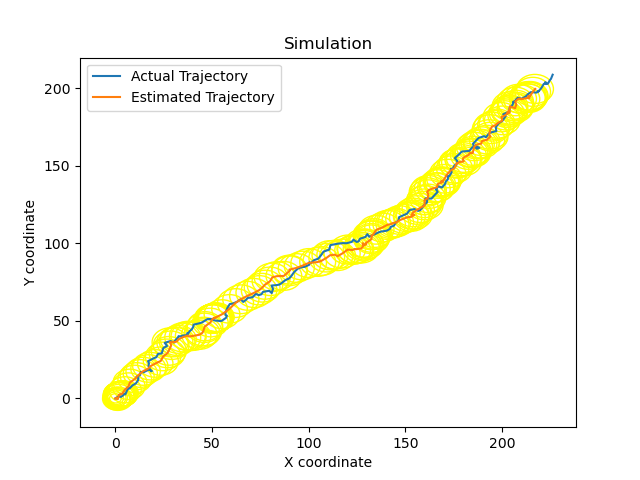
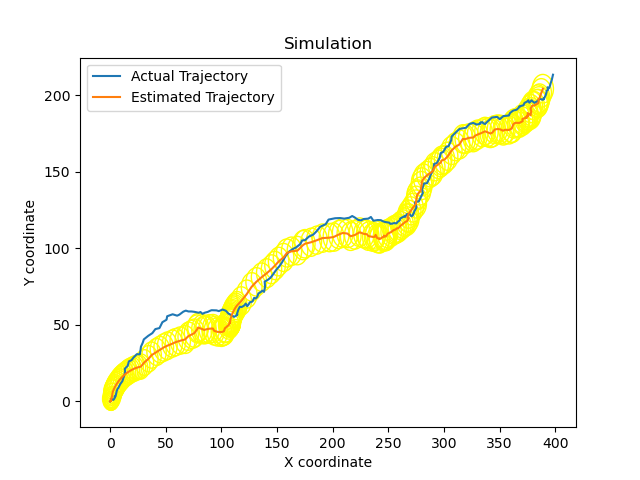
Updated Plots after Singlas Blunder

diff --git a/Q1/dataAssociation.py b/Q1/dataAssociation.py
@@ -37,10 +37,10 @@ def multiagent_simulate(kf_filters,num_iters):
         x_estimated[i].append(x_cap_t[i][0][0])
         y_estimated[i].append(x_cap_t[i][1][0])
 
-
     basic_arr = np.arange(0,num_iters,1)
-    delta_vel_x = np.sin(basic_arr)
-    delta_vel_y = np.cos(basic_arr)
+    delta_vel_x = np.sin(basic_arr*DELTA_T)
+    delta_vel_y = np.cos(basic_arr*DELTA_T)
+    
     # ith iteration ke end me hummein X_i+1 ki beleif mil jaata hai using u_i,X^_i,z_i+1
     for i in range(num_iters):
         u_t = np.array([[delta_vel_x[i],delta_vel_y[i]]]).T #u_t
@@ -84,7 +84,7 @@ def multiagent_simulate(kf_filters,num_iters):
     fig.canvas.draw()
     plt.legend()
     # plt.show()
-    plt.savefig("figs/Q1/f_4_agents.png")
+    plt.savefig(f"figs/Q1/f_{len(kf_filters)}_agents.png")
 
 if __name__ == '__main__':
     np.random.seed(0)
@@ -113,36 +113,36 @@ if __name__ == '__main__':
     aero_obj_b = aeroplane(init_state_b,A_t,B_t,C_t,R_t_b,Q_t_b)
     estimator_b = KalmanFilter(aero_obj_b, mean_belief_0_b, covar_belief_0_b)
     
-    init_state_c = np.array([[100,120,18,9]]).T
-    # A_t = np.array([[1,0,DELTA_T,0],[0,1,DELTA_T,0],[0,0,1,0],[0,0,0,1]])
-    # B_t = np.array([[0,0],[0,0],[1,0],[0,1]])
-    # C_t = np.array([[1,0,0,0],[0,1,0,0]])
-    R_t_c = np.array([[2,0,0,0],[0,2,0,0],[0,0,1e-4,0],[0,0,0,1e-4]])
-    Q_t_c = np.array([[10,0],[0,10]]) 
+    # init_state_c = np.array([[100,120,9,18]]).T
+    # # A_t = np.array([[1,0,DELTA_T,0],[0,1,DELTA_T,0],[0,0,1,0],[0,0,0,1]])
+    # # B_t = np.array([[0,0],[0,0],[1,0],[0,1]])
+    # # C_t = np.array([[1,0,0,0],[0,1,0,0]])
+    # R_t_c = np.array([[2,0,0,0],[0,2,0,0],[0,0,1e-4,0],[0,0,0,1e-4]])
+    # Q_t_c = np.array([[10,0],[0,10]]) 
     
-    mean_belief_0_c = np.array([[100,120,18,9]]).T
-    covar_belief_0_c = np.array([[1e-4,0,0,0],[0,1e-4,0,0],[0,0,1e-4,0],[0,0,0,1e-4]])
+    # mean_belief_0_c = np.array([[100,120,9,18]]).T
+    # covar_belief_0_c = np.array([[1e-4,0,0,0],[0,1e-4,0,0],[0,0,1e-4,0],[0,0,0,1e-4]])
     
-    aero_obj_c = aeroplane(init_state_c,A_t,B_t,C_t,R_t_c,Q_t_c)
-    estimator_c = KalmanFilter(aero_obj_c, mean_belief_0_c, covar_belief_0_c)
+    # aero_obj_c = aeroplane(init_state_c,A_t,B_t,C_t,R_t_c,Q_t_c)
+    # estimator_c = KalmanFilter(aero_obj_c, mean_belief_0_c, covar_belief_0_c)
     
-    init_state_d = np.array([[100,20,50,0]]).T
-    # A_t = np.array([[1,0,DELTA_T,0],[0,1,DELTA_T,0],[0,0,1,0],[0,0,0,1]])
-    # /# B_t = np.array([[0,0],[0,0],[1,0],[0,1]])
-    # C_t = np.array([[1,0,0,0],[0,1,0,0]])
-    R_t_d = np.array([[5,0,0,0],[0,5,0,0],[0,0,1e-4,0],[0,0,0,1e-4]])
-    Q_t_d = np.array([[10,0],[0,10]]) 
+    # init_state_d = np.array([[100,20,50,0]]).T
+    # # A_t = np.array([[1,0,DELTA_T,0],[0,1,DELTA_T,0],[0,0,1,0],[0,0,0,1]])
+    # # /# B_t = np.array([[0,0],[0,0],[1,0],[0,1]])
+    # # C_t = np.array([[1,0,0,0],[0,1,0,0]])
+    # R_t_d = np.array([[5,0,0,0],[0,5,0,0],[0,0,1e-4,0],[0,0,0,1e-4]])
+    # Q_t_d = np.array([[10,0],[0,10]]) 
     
-    mean_belief_0_d = np.array([[100,20,50,0]]).T
-    covar_belief_0_d = np.array([[1e-4,0,0,0],[0,1e-4,0,0],[0,0,1e-4,0],[0,0,0,1e-4]])
+    # mean_belief_0_d = np.array([[100,20,50,0]]).T
+    # covar_belief_0_d = np.array([[1e-4,0,0,0],[0,1e-4,0,0],[0,0,1e-4,0],[0,0,0,1e-4]])
     
-    aero_obj_d= aeroplane(init_state_d,A_t,B_t,C_t,R_t_d,Q_t_d)
-    estimator_d = KalmanFilter(aero_obj_d, mean_belief_0_d, covar_belief_0_d)
+    # aero_obj_d= aeroplane(init_state_d,A_t,B_t,C_t,R_t_d,Q_t_d)
+    # estimator_d = KalmanFilter(aero_obj_d, mean_belief_0_d, covar_belief_0_d)
     
 
     
     
-    estimators=[estimator_a,estimator_b,estimator_c,estimator_d]
+    estimators=[estimator_a,estimator_b]
     multiagent_simulate(estimators,200)
 
     # pass

diff --git a/Q1/Kalman_Filter.py b/Q1/Kalman_Filter.py
@@ -144,7 +144,7 @@ def simulate_filter(filter_obj,num_iters,uncertainity_ellipse=False,observed_tra
     plt.ylabel("Y coordinate")
     fig.canvas.draw()
     plt.legend()
-    plt.savefig("figs/Q1/d.png")
+    plt.savefig("figs/Q1/c.png")
     plt.show()
     
 def simulate_filter_vel(filter_obj,num_iters,uncertainity_ellipse=False,observed_trajectory=False,loss_locs=[],loss_durations=[]):
@@ -175,10 +175,10 @@ def simulate_filter_vel(filter_obj,num_iters,uncertainity_ellipse=False,observed
     x_estimated.append(x_cap_t[2][0])
     y_estimated.append(x_cap_t[3][0])
     
-    
     basic_arr = np.arange(0,num_iters,1)
-    delta_vel_x = np.sin(basic_arr)
-    delta_vel_y = np.cos(basic_arr)
+    delta_vel_x = np.sin(basic_arr*DELTA_T)
+    delta_vel_y = np.cos(basic_arr*DELTA_T)
+    
     
     
     absence_of_observations = []
@@ -222,7 +222,7 @@ def simulate_filter_vel(filter_obj,num_iters,uncertainity_ellipse=False,observed
     plt.ylabel("Velocity along y-axis")
     fig.canvas.draw()
     plt.legend()
-    plt.savefig("figs/Q1/e_unequal_init.png")
+    plt.savefig("figs/Q1/e_equal_init.png")
     plt.show()
 if __name__ == "__main__":
     from Agent import aeroplane    
@@ -236,10 +236,10 @@ if __name__ == "__main__":
     R_t = np.array([[1,0,0,0],[0,1,0,0],[0,0,1e-4,0],[0,0,0,1e-4]])
     Q_t = np.array([[100,0],[0,100]]) 
     
-    mean_belief_0 = np.array([[0,0,0,0]]).T
+    mean_belief_0 = np.array([[0,0,10,10]]).T
     covar_belief_0 = np.array([[1e-4,0,0,0],[0,1e-4,0,0],[0,0,1e-4,0],[0,0,0,1e-4]])
     
     aero_obj = aeroplane(init_state,A_t,B_t,C_t,R_t,Q_t)
     estimator = KalmanFilter(aero_obj, mean_belief_0, covar_belief_0)
-    simulate_filter(estimator,200,uncertainity_ellipse=True,observed_trajectory=False,loss_locs=[10,60],loss_durations=[20,20])
-    simulate_filter_vel(estimator,200,uncertainity_ellipse=False,observed_trajectory=False,loss_locs=[],loss_durations=[])
+    simulate_filter(estimator,200,uncertainity_ellipse=True,observed_trajectory=False,loss_locs=[],loss_durations=[])
+    # simulate_filter_vel(estimator,200,uncertainity_ellipse=False,observed_trajectory=False,loss_locs=[],loss_durations=[])

diff --git a/Q1/Agent.py b/Q1/Agent.py
@@ -89,6 +89,7 @@ if __name__ =="__main__":
     C_t = np.array([[1,0,0,0],[0,1,0,0]])
     R_t = np.array([[1,0,0,0],[0,1,0,0],[0,0,1e-4,0],[0,0,0,1e-4]])
     Q_t = np.array([[100,0],[0,100]]) 
+    
     u_t = np.array([[0,0]]).T
     
     aero_obj = aeroplane(initial_state,A_t,B_t,C_t,R_t,Q_t)
